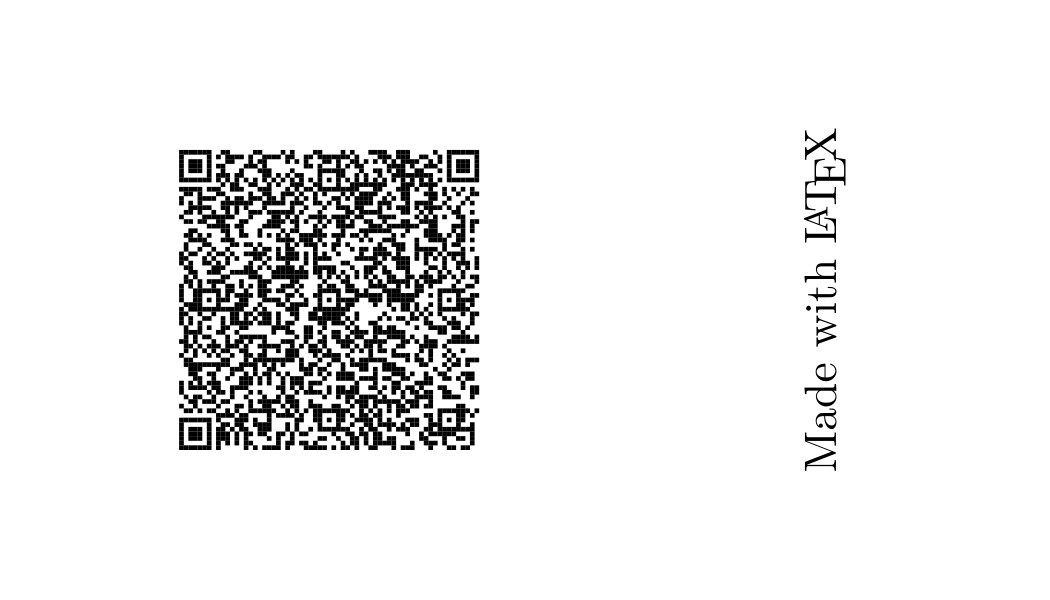
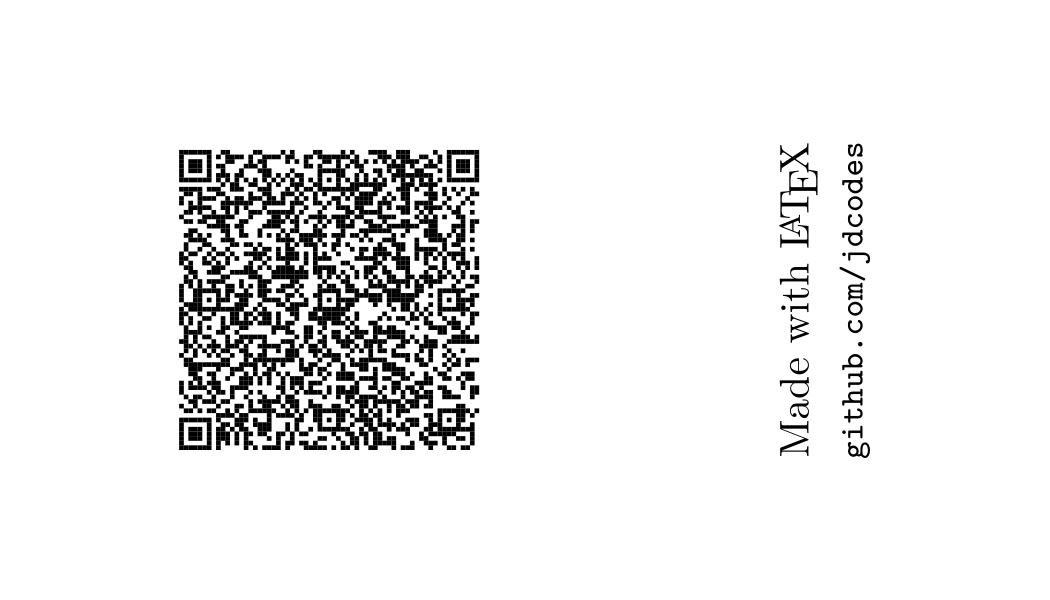
Add details to back page

Changed region(s): [[0.7314, 0.21, 0.8229, 0.78]]

diff --git a/back.tex b/back.tex
@@ -16,6 +16,7 @@
 \usepackage{tikz}								% Handle actual layout
 \usetikzlibrary{calc,positioning}						% Load and configure TikZ libraries
 \usepackage[nolinks]{qrcode}						% Create QR codes
+\usepackage{setspace}							% Change line spacing
 
 % Define lengths for internal spacing
 \newlength{\qrheight}  \setlength{\qrheight}{1in}	
@@ -47,9 +48,12 @@ BDAY:19880310
 ADR;TYPE=WORK,PREF:;;2 Some Avenue;Anytown;SF;11111;USA
 END:VCARD}};
 
-% LATEX LOGO
+% DETAILS
+\setstretch{0.9}
 \draw (current page.center) ++(-\paperheight/2+\edgemargin+\paperwidth/2+\edgemargin-\qrheight/2,0) node (helper logo) {};
-\node[anchor=center,rotate around={90:(current page.center)}, yshift=-\paperheight/2] at (current page.center) {\small{Made with \LaTeX}};
+\node[align=center,anchor=center,rotate around={90:(current page.center)}, yshift=-\paperheight/2] at (current page.center) {
+\footnotesize{Made with \LaTeX} \\
+\scriptsize\texttt{github.com/jdcodes}};
 
 \end{tikzpicture}
 
